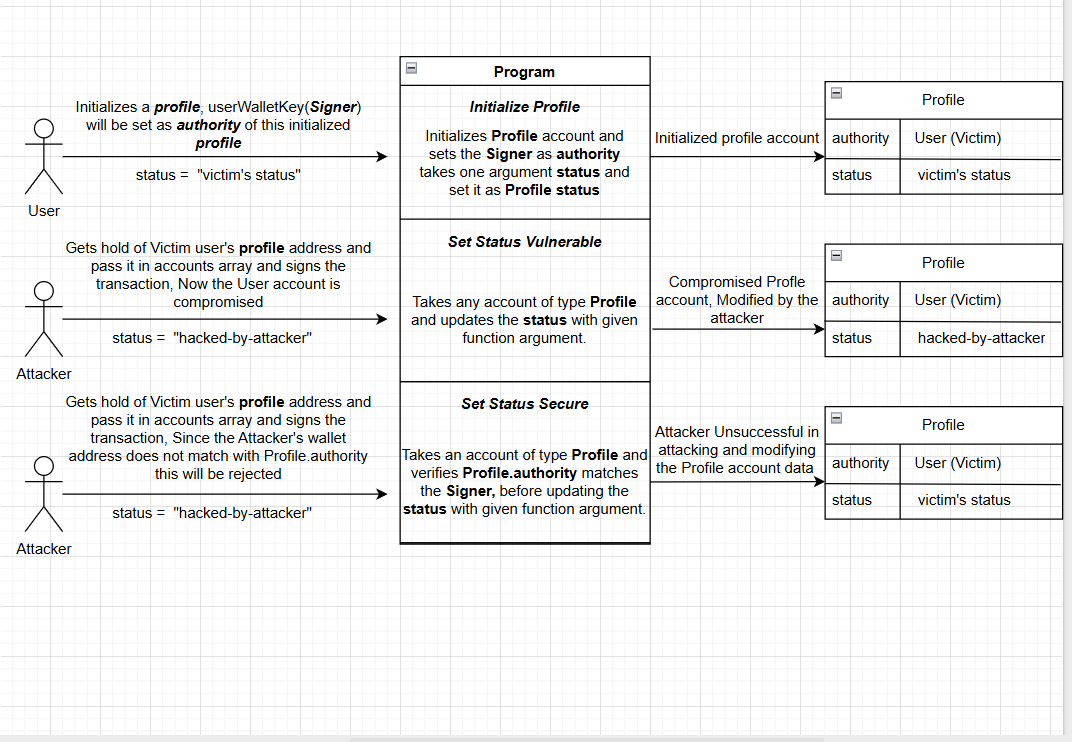
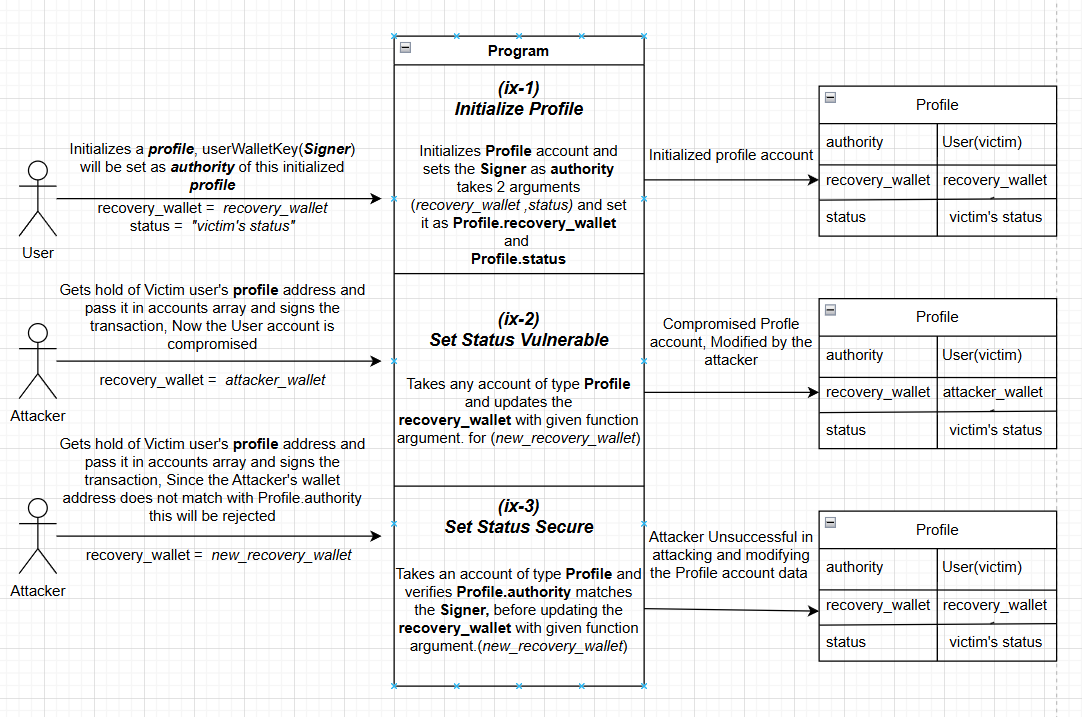
docs: recovery wallet

diff --git a/docs/account-substitution.md b/docs/account-substitution.md
@@ -18,7 +18,7 @@ Account relationship validation is one of the most common attack surfaces in Sol
 
 ```
     #[derive(Accounts)]
-    pub struct SetStatusVulnerable<'info> {
+    pub struct SetRecoveryWalletVulnerable<'info> {
         pub authority: Signer<'info>,
 
         #[account(mut)]
@@ -46,8 +46,9 @@ Account relationship validation is one of the most common attack surfaces in Sol
 The Rust integration test demonstrates that an attacker can update the victim's profile using the vulnerable instruction.
 
 Assertion:
-``` assert_eq!(profile_account.authority, victim.pubkey());
-    assert_eq!(profile_account.status, "hacked-by-attacker");
+``` assert_eq!(after_attack.authority, victim.pubkey());
+    assert_eq!(after_attack.recovery_wallet, attacker.pubkey());
+    assert_eq!(after_attack.status, "victim's status");
 ```
 
 Test Restult:
